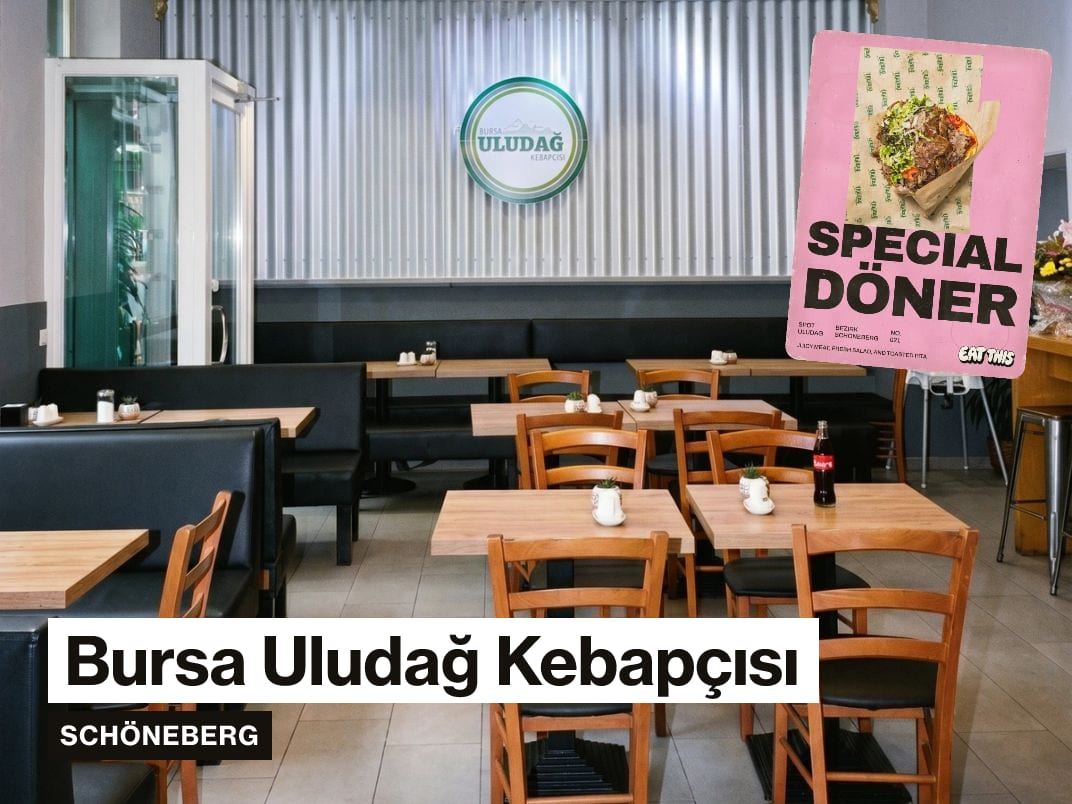
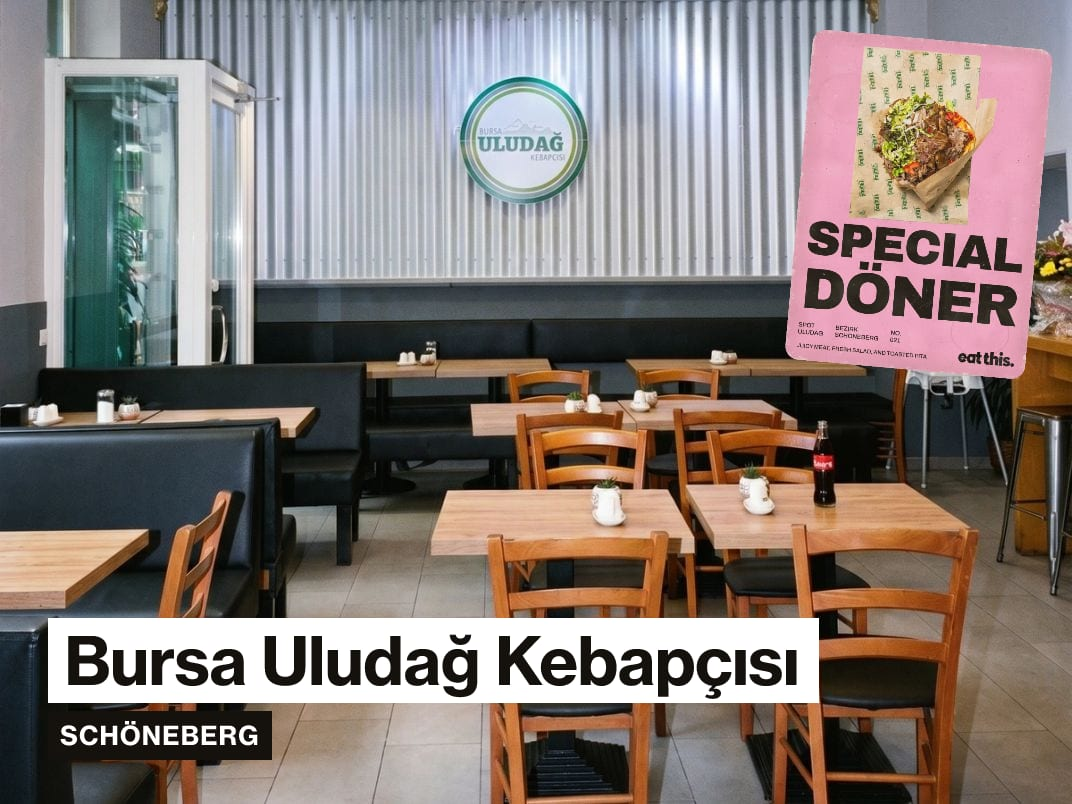
Rebuild deck preview and signup mail spots with the new Must Eat cards

Changed region(s): [[0.7696, 0.0622, 0.9543, 0.3109], [0.8927, 0.4042, 0.9543, 0.4664]]

diff --git a/nextjs/emails/spots.generated.ts b/nextjs/emails/spots.generated.ts
@@ -14,21 +14,21 @@ interface EmailSpot {
 
 export const EMAIL_SPOTS: readonly EmailSpot[] = [
   {
+    "slug": "crapulix",
+    "name": "Crapulix",
+    "meta": "Steglitz",
+    "version": "142a394f"
+  },
+  {
     "slug": "bursa-uludag-kebapcisi",
     "name": "Bursa Uludağ Kebapçısı",
     "meta": "Schöneberg",
-    "version": "fa90024a"
+    "version": "02ed7c7b"
   },
   {
     "slug": "bar-basta",
     "name": "Bar Basta",
     "meta": "Mitte",
-    "version": "265fdb31"
-  },
-  {
-    "slug": "jones-ice-cream",
-    "name": "Jones Ice Cream",
-    "meta": "Schöneberg",
-    "version": "fd79420a"
+    "version": "dd51422f"
   }
 ];
